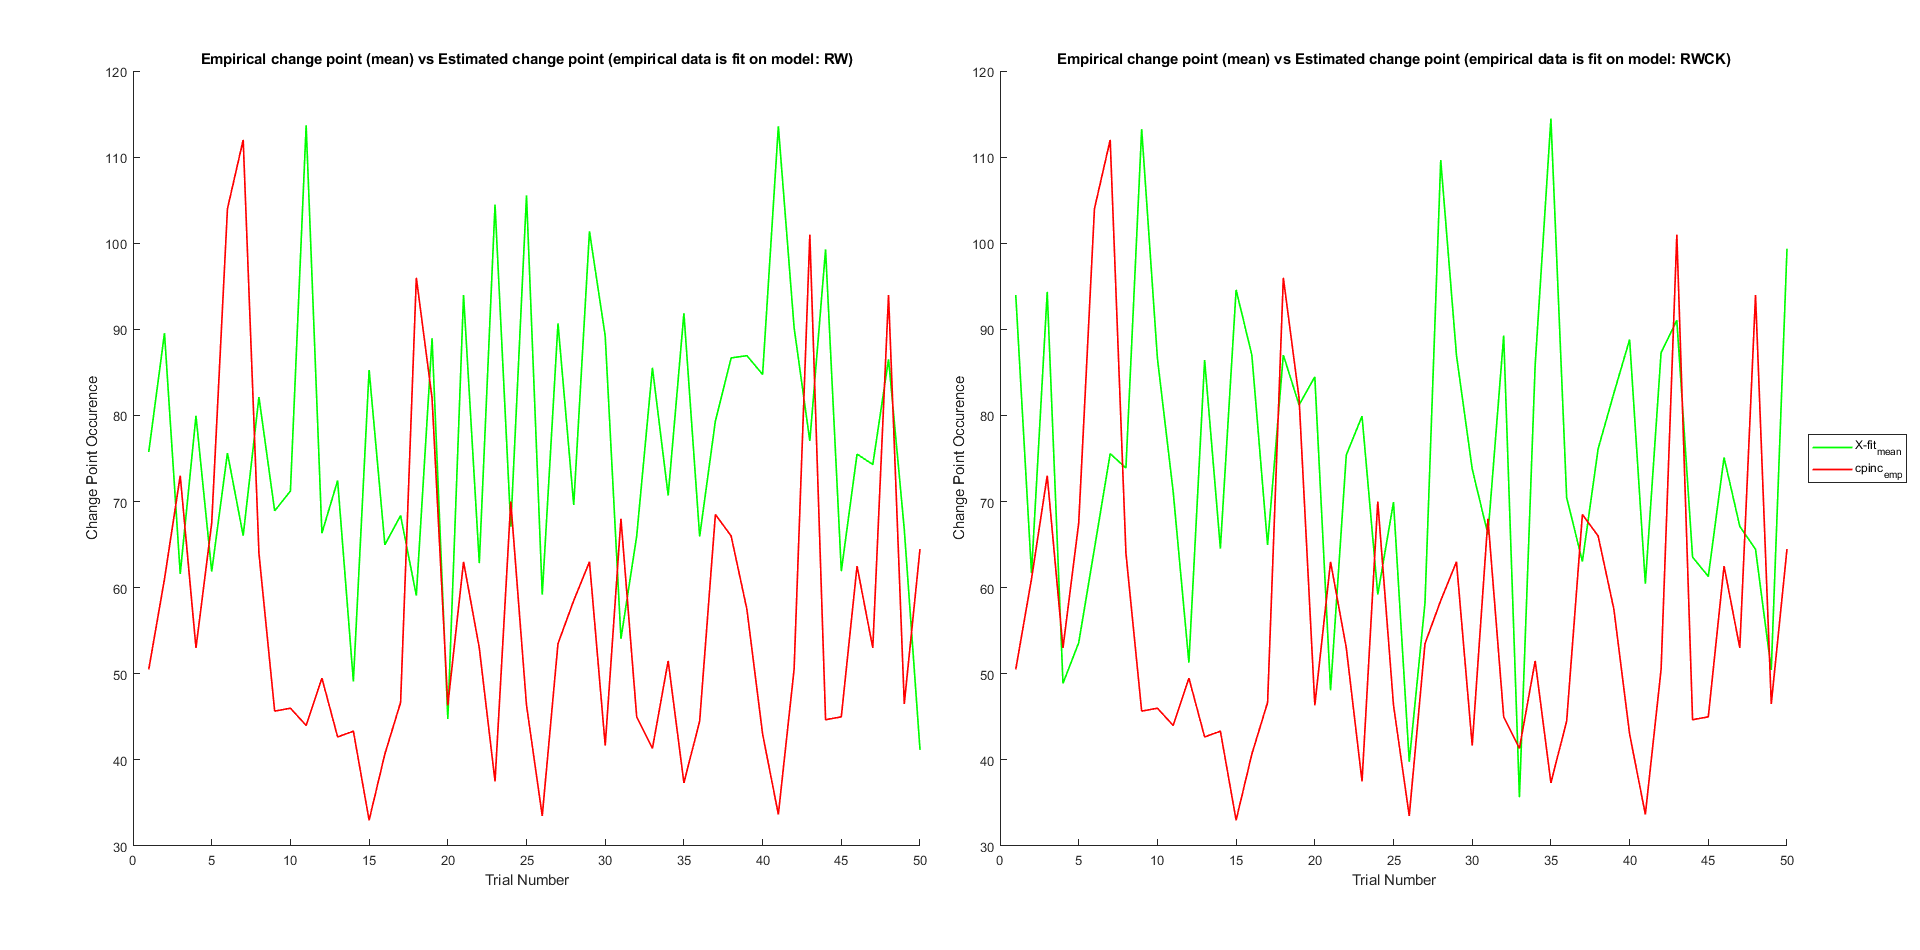
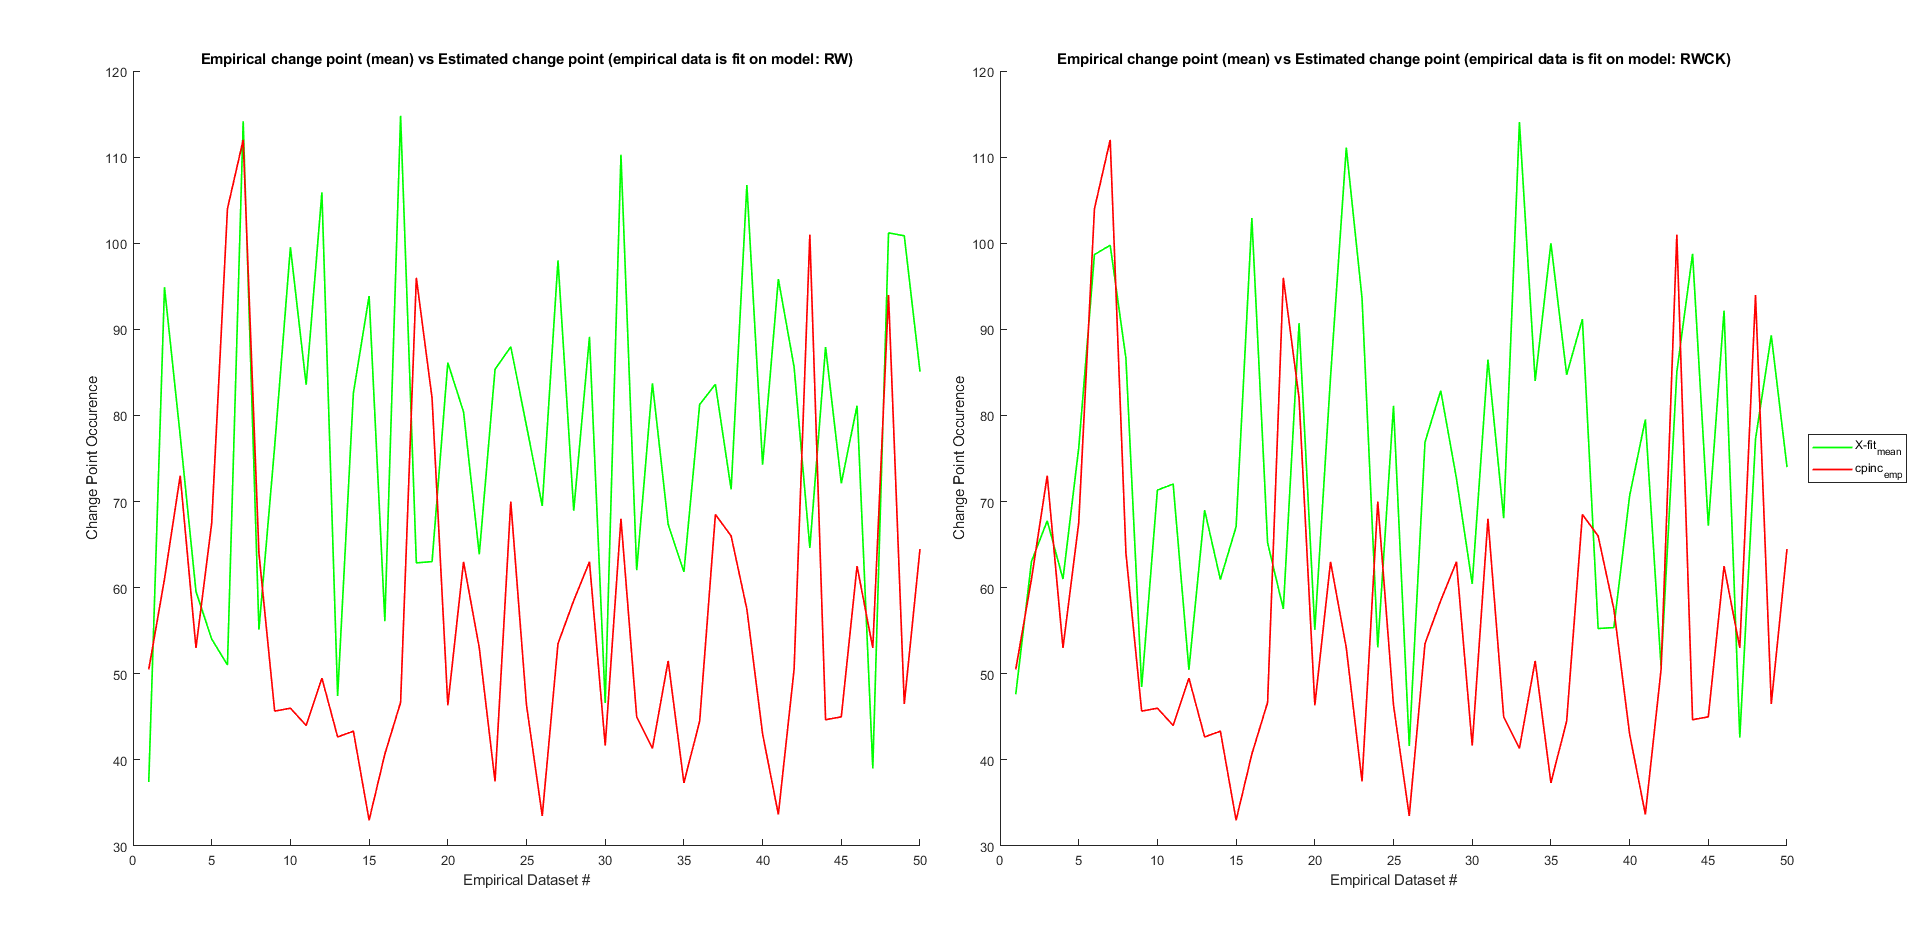
Modified graphs

diff --git a/matlab_code/main_simulation.m b/matlab_code/main_simulation.m
@@ -43,7 +43,7 @@ end
 
 
 figure(1); 
-title('Confusion Matrix: RW(model 1) vs RWCK(model 2)')
+title('Confusion Matrix for ' + string(nReps) +' simulated datasets: RW(model 1) vs RWCK(model 2)')
 hold on;
 set(gcf, 'Position', [811   417   500   400])
 set(gca, 'fontsize', 12);
@@ -57,7 +57,7 @@ hold on;
 plot(BIC_rw_sim_data(:,1), 'b', 'LineWidth',1.25);	
 hold on;
 plot(BIC_rw_sim_data(:,2), 'r', 'LineWidth',1.25);	
-xlabel('Trial Number')	
+xlabel('Simulated Dataset #')	
 ylabel('BIC Values')
 
 nexttile
@@ -66,7 +66,7 @@ hold on;
 plot(BIC_rwck_sim_data(:,1), 'b', 'LineWidth',1.25);	
 hold on;
 plot(BIC_rwck_sim_data(:,2), 'r', 'LineWidth',1.25);	
-xlabel('Trial Number')	
+xlabel('Simulated Dataset #')	
 ylabel('BIC Values')
 lgd = legend ({"Model 1: RW" + newline, "Model 2: RWCK"});
 lgd.Layout.Tile = 2;	
@@ -88,7 +88,7 @@ plot (Xfit_mean_rw1, 'g', 'LineWidth',1.25);
 hold on;	
 plot (sim_data_rw.parameter_cp, 'r', 'LineWidth',1.25);	
 hold on;	
-xlabel('Trial Number')	
+xlabel('Simulated Dataset #')	
 ylabel('Change Point Occurence')
 
 nexttile	
@@ -100,7 +100,7 @@ plot (Xfit_mean_rw2, 'g', 'LineWidth',1.25);
 hold on;	
 plot (sim_data_rwck.parameter_cp, 'r', 'LineWidth',1.25);	
 hold on;	
-xlabel('Trial Number')	
+xlabel('Simulated Dataset #')	
 ylabel('Change Point Occurence')
 
 nexttile	
@@ -112,7 +112,7 @@ plot (Xfit_mean_rwck1, 'g', 'LineWidth',1.25);
 hold on;	
 plot (sim_data_rw.parameter_cp, 'r', 'LineWidth',1.25);	
 hold on;	
-xlabel('Trial Number')	
+xlabel('Simulated Dataset #')	
 ylabel('Change Point Occurence')	
 
 nexttile	
@@ -124,7 +124,7 @@ plot (Xfit_mean_rwck2, 'g', 'LineWidth',1.25);
 hold on;	
 plot (sim_data_rwck.parameter_cp, 'r', 'LineWidth',1.25);	
 hold on;	
-xlabel('Trial Number')	
+xlabel('Simulated Dataset #')	
 ylabel('Change Point Occurence')	
 lgd = legend ({"X-fit_{mean}" + newline, "cpinc_{sim}"});
 lgd.Layout.Tile = 4;	

diff --git a/matlab_code/main_empirical.m b/matlab_code/main_empirical.m
@@ -25,7 +25,7 @@ plot(BIC_emp_data(:,1), 'b', 'LineWidth',1.25);
 hold on;
 plot(BIC_emp_data(:,2), 'r', 'LineWidth',1.25);
 legend({"Model 1: RW" + newline, "Model 2: RWCK"});
-xlabel('Trial Number')	
+xlabel('Empirical Dataset #')	
 ylabel('BIC Values')
 
 [cpinc_emp] = model_free_analysis(nReps);
@@ -41,7 +41,7 @@ plot(Xfit_mean1, 'g', 'LineWidth',1.25);
 hold on;	
 plot (cpinc_emp, 'r', 'LineWidth',1.25);	
 hold on;	
-xlabel('Trial Number')	
+xlabel('Empirical Dataset #')	
 ylabel('Change Point Occurence')
 
 nexttile
@@ -53,7 +53,7 @@ plot (Xfit_mean2, 'g', 'LineWidth',1.25);
 hold on;	
 plot (cpinc_emp, 'r', 'LineWidth',1.25);	
 hold on;	
-xlabel('Trial Number')	
+xlabel('Empirical Dataset #')	
 ylabel('Change Point Occurence')	
 lgd = legend ({"X-fit_{mean}" + newline, "cpinc_{emp}"});
 lgd.Layout.Tile = 2;	

diff --git a/matlab_code/model_free_analysis.m b/matlab_code/model_free_analysis.m
@@ -24,5 +24,16 @@ for n = 1:nReps
     cpinc_emp(n) = mean(cp_diff);
             
 end
+
+figure(6);
+title('Model free analysis: Empirical change point (mean)')
+hold on;
+set(gcf, 'Position', [811   417   500   400])
+set(gca, 'fontsize', 12);
+plot(cpinc_emp, 'r', 'LineWidth',1.25);
+%legend({"Model 1: RW" + newline, "Model 2: RWCK"});
+xlabel('Empirical Dataset #')	
+ylabel('Change Point Occurence')
+
 end
 
